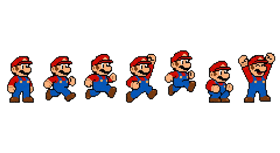
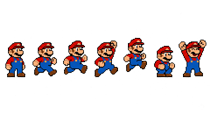
Site updated: 2025-12-26 23:40:56

diff --git a/css/custom.css b/css/custom.css
@@ -46,14 +46,14 @@
 
 #pixel-runner {
   position: absolute;
-  bottom: -45px;
-  left: -20px;
-  width: 38px;                /* 单帧宽度: 280÷7 = 40px */
-  height: 153px;              /* 保持原始高度 */
+  bottom: -32px;
+  left: -15px;
+  width: 28px;  /*根据图片像素计算， 210÷7＝30 但是有裁切有问题 */
+  height: 115px;
   image-rendering: pixelated;
   transition: left 0.1s linear;
   background-image: url("/img/阅读条.png");
-  background-size: 280px 153px;   /* 保持原始尺寸不缩放 */
+  background-size: 210px 115px;
   background-position: 0 0;
   background-repeat: no-repeat;
 }
@@ -79,21 +79,18 @@
   animation: mario-run 0.05s steps(1) infinite;
 }
 
-/* 小跳：轻快干脆 */
 #pixel-runner.jumping.low-jump {
   animation: 
     mario-jump-sprite-low 0.32s steps(1) forwards,
     mario-jump-move-low 0.32s cubic-bezier(0.2, 0.8, 0.4, 1) forwards;
 }
 
-/* 中跳：标准节奏 */
 #pixel-runner.jumping {
   animation: 
     mario-jump-sprite-normal 0.42s steps(1) forwards,
     mario-jump-move-normal 0.42s cubic-bezier(0.2, 0.85, 0.35, 1) forwards;
 }
 
-/* 大跳：有力量感 */
 #pixel-runner.jumping.high-jump {
   animation: 
     mario-jump-sprite-high 0.52s steps(1) forwards,
@@ -112,21 +109,18 @@
   100% { transform: translateY(0); }
 }
 
-/* 跑步动画：第2帧(-40px)和第3帧(-80px)交替 */
 @keyframes mario-run {
-  0%, 100% { background-position: -40px 0; }
-  50% { background-position: -80px 0; }
+  0%, 100% { background-position: -30px 0; }
+  50% { background-position: -60px 0; }
 }
 
-/* 小跳精灵帧 */
 @keyframes mario-jump-sprite-low {
-  0%, 8% { background-position: -120px 0; }      /* 第4帧: 起跳 */
-  12%, 80% { background-position: -160px 0; }    /* 第5帧: 空中 */
-  85%, 95% { background-position: -200px 0; }    /* 第6帧: 落地 */
-  100% { background-position: 0 0; }             /* 第1帧: 站立 */
+  0%, 8% { background-position: -90px 0; }
+  12%, 80% { background-position: -120px 0; }
+  85%, 95% { background-position: -150px 0; }
+  100% { background-position: 0 0; }
 }
 
-/* 小跳位移 */
 @keyframes mario-jump-move-low {
   0% { transform: translateY(0); }
   30% { transform: translateY(-10px); }
@@ -135,15 +129,13 @@
   100% { transform: translateY(0); }
 }
 
-/* 中跳精灵帧 */
 @keyframes mario-jump-sprite-normal {
-  0%, 10% { background-position: -120px 0; }
-  15%, 75% { background-position: -160px 0; }
-  82%, 93% { background-position: -200px 0; }
+  0%, 10% { background-position: -90px 0; }
+  15%, 75% { background-position: -120px 0; }
+  82%, 93% { background-position: -150px 0; }
   100% { background-position: 0 0; }
 }
 
-/* 中跳位移 */
 @keyframes mario-jump-move-normal {
   0% { transform: translateY(0); }
   28% { transform: translateY(-18px); }
@@ -152,15 +144,13 @@
   100% { transform: translateY(0); }
 }
 
-/* 大跳精灵帧 */
 @keyframes mario-jump-sprite-high {
-  0%, 12% { background-position: -120px 0; }
-  18%, 72% { background-position: -160px 0; }
-  80%, 92% { background-position: -200px 0; }
+  0%, 12% { background-position: -90px 0; }
+  18%, 72% { background-position: -120px 0; }
+  80%, 92% { background-position: -150px 0; }
   100% { background-position: 0 0; }
 }
 
-/* 大跳位移 */
 @keyframes mario-jump-move-high {
   0% { transform: translateY(0); }
   25% { transform: translateY(-28px); }
@@ -169,9 +159,8 @@
   100% { transform: translateY(0); }
 }
 
-/* 庆祝动画：第7帧(-240px)和第1帧(0)交替 */
 @keyframes mario-celebrate {
-  0%, 100% { background-position: -240px 0; }
+  0%, 100% { background-position: -180px 0; }
   50% { background-position: 0 0; }
 }
 
